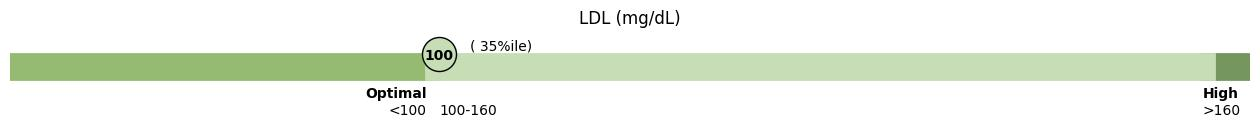
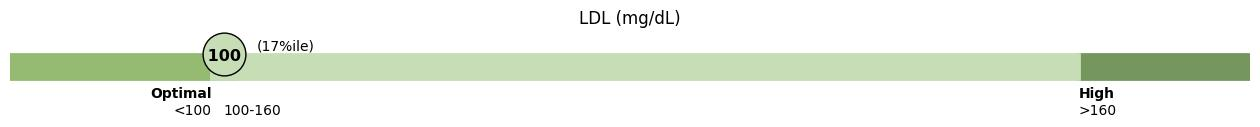
Changes in BMI input

diff --git a/Home.py b/Home.py
@@ -113,7 +113,7 @@ SAHC_FILE = os.path.join(SAHC_DATA_DIR, 'merged_data_noPID.csv')
 
 UNITS_MAP = {
     'LBDHDD': "mg/dL", 'LBDLDL': "mg/dL", 'LBXTC': "mg/dL", 'LBXTR': "mg/dL", 'LBXGH': "%",
-    'LBXGLU': "mg/dL", 'BPXOSY1': "mmHg", 'BPXODI1': "mmHg", 'LBXHGB': "g/dL", 'TotHDLRat': "", 'BMXBMI': "kg/m\u00b2"
+    'LBXGLU': "mg/dL", 'BPXOSY1': "mmHg", 'BPXODI1': "mmHg", 'LBXHGB': "g/dL", 'TotHDLRat': "", 'BMXBMI': ""
 }
 
 
@@ -126,19 +126,6 @@ NAME_MAP = {
 }
 
 AHA_RANGES = {
-    'Triglycerides (mg/dL)': (None, 150),
-    'HDL (mg/dL)': (40, 60),
-    'LDL (mg/dL)': (None, 100),
-    'Total Cholesterol (mg/dL)': (140, 160),
-    'Fasting Glucose (mg/dL)': (None, 100),
-    'Systolic Blood Pressure (mmHg)': (None, 120),
-    'Diastolic Blood Pressure (mmHg)': (None, 80),
-    'Total Cholesterol to HDL Ratio': (3.5, 5),
-    'Hemoglobin A1C (%)': (None, 5.7),
-    'Body Mass Index (kg/m\u00b2)': (None, 25)
-}
-
-AHA_RANGES = {
     'Triglycerides (mg/dL)': ("Normal", 150, "Borderline", 200, "High"),
     'HDL (mg/dL)': ("Low", 40, "Normal", 60, "High"),
     'LDL (mg/dL)': ("Optimal", 100, "", 160, "High"),
@@ -148,7 +135,7 @@ AHA_RANGES = {
     'Diastolic Blood Pressure (mmHg)': ("Normal", 80, "High", None, None, None),
     'Total Cholesterol to HDL Ratio': ("Low", 3.5, "Normal", 5, "High"),
     'Hemoglobin A1C (%)': ("Normal", 5.7, "Borderline", 6.4, "High"),
-    'Body Mass Index (kg/m\u00b2)': ("Low", 18.5, "Normal", 25, "High")
+    'Body Mass Index': ("Low", 18.5, "Normal", 25, "High")
 }
 
 def map_age_to_group(age):
@@ -362,16 +349,16 @@ def ui_choose(df, debugging):
     return df2
 
 @st.dialog("Your marker compared to your peers")
-def popup(acro, column, user_input, user_percentile, gender, age_range, med, on_med, prob, value, p25, p50, p75, p90, side, suffix):
+def popup(acro, column, user_input, user_percentile, gender, age_range, med, on_med, prob, value, p25, p50, p75, p90, side, suffix, low_number, high_number):
     
     if side == 'greater':
         st.write(f"The estimated probability of an optimal {column} ≥ {value} {UNITS_MAP[acro]} for a {gender.lower()} aged between {age_range} years is {prob * 100: .0f}%.")
     else:
         st.write(f"The estimated probability of an optimal {column} ≤ {value} {UNITS_MAP[acro]} for a {gender.lower()} aged between {age_range} years is {prob * 100: .0f}%.")
     if on_med:
-        st.write(f"An {column} of {user_input} is at the {user_percentile: .0f}{suffix} percentile for a {gender.lower()} aged between {age_range} years who is on {med}-lowering medication.")
+        st.write(f"An {column} of {user_input:.1f} is at the {user_percentile: .0f}{suffix} percentile for a {gender.lower()} aged between {age_range} years who is on {med}-lowering medication.")
     else:
-        st.write(f"An {column} of {user_input} is at the {user_percentile: .0f}{suffix} percentile for a {gender.lower()} aged between {age_range} years who is not on {med}-lowering medication.")
+        st.write(f"An {column} of {user_input:.1f} is at the {user_percentile: .0f}{suffix} percentile for a {gender.lower()} aged between {age_range} years who is not on {med}-lowering medication.")
 
     data = {
         'Percentile': [f'{column} Level'],
@@ -385,8 +372,14 @@ def popup(acro, column, user_input, user_percentile, gender, age_range, med, on_
     df = pd.DataFrame(data)
     st.dataframe(df, hide_index=True)
 
-    st.write("Based on the AHA guidlelines, the optimal value for HDL >= 40 for males. “>= 45 for females")
+    if 'Triglyc' in column or 'LDL' in column or 'Total Cholesterol (mg/dL)' in column or 'Glucose' in column or 'Pressure' in column or 'A1C' in column:
+        st.write(f"Based on the American Heart Association guidlelines, the optimal value for {column} is ≤ {low_number} for {gender.lower()}s.")
+    elif 'to HDL' in column or 'Body Mass' in column:
+        st.write(f"Based on the American Heart Association guidlelines, the optimal value for {column} is between {low_number}-{high_number} for {gender.lower()}s.")
+    elif 'HDL' in column:
+        st.write(f"Based on the American Heart Association guidlelines, the optimal value for {column} is ≥ {low_number} for {gender.lower()}s.")
 
+    
 def show_analysis(df):
     st.markdown(f"### <u>My risk profile markers</u>", unsafe_allow_html=True)
     
@@ -411,42 +404,83 @@ def show_analysis(df):
 
     user_inputs = {}
 
+    STEP_SIZE = {
+        'LBDHDD': 1,
+        'LBDLDL': 1,
+        'LBXTC': 1,
+        'LBXTR': 1,
+        'LBXGLU': 1,
+        'BPXOSY1': 1,
+        'BPXODI1': 1,
+        'TotHDLRat': .1,
+        'LBXGH': .1,
+        'BMXBMI': 1,
+    }
+
     for i, column in enumerate(['LBXTC', 'LBDLDL', 'LBDHDD', 'LBXTR', 'TotHDLRat', 'LBXGLU', 'LBXGH', 'BMXBMI', 'BPXOSY1', 'BPXODI1']):
+
+        global header
+        global placeholder
+        global header_color
 
         with cols[i].container():
 
             # col6, col7, col8, col9, col10, col11 = st.columns([.25, 1.6, .3, 5, 5, .25], vertical_alignment='bottom')
             # col6, col7, col8, col9, col10, col11 = st.columns([0.1, 0.15, 0.05, 0.3, 0.3, 0.1], vertical_alignment='bottom')
             # col6, col7, col8, col9, col10, col11 = st.columns([0.1, 0.12, 0.03, 0.325, 0.325, 0.1], vertical_alignment='bottom')
-            col6, col7, col8, col9, col10 = st.columns([0.05, 0.17, 0.05, 0.68, 0.05], vertical_alignment='center')
-            
-            columnName = f"{NAME_MAP[column]} ({UNITS_MAP[column]})"
-            if column == 'TotHDLRat':
+            if column == 'BMXBMI':
                 columnName = f"{NAME_MAP[column]}"
 
-            with col7:
-                key = column
+                header_col6, header_col7, header_col8, header_col9, header_col10 = st.columns([0.05, 0.17, 0.05, 0.68, 0.05])
 
+                # Ensure the placeholder is above col7 and col71
+                with header_col7:
 
-                global header
-                header = columnName
+                    header = columnName
+                    header_color = "black"
+                    placeholder = st.empty()
+                    placeholder.write(f"#### {header}")
 
-                global header_color
-                header_color = "black"
+                col6, col7, col71, col8, col9, col10 = st.columns([0.05, 0.085, 0.085, 0.05, 0.68, 0.05], vertical_alignment='center')
 
-                global placeholder
-                placeholder = st.empty()
+                with col7:
+                    key = column
 
-                placeholder.write(f"#### {header}")
+                    unique_key = f"{key}_{i}"
+                    weight = st.number_input('Weight (lbs)', key=unique_key, step=STEP_SIZE[column], value = 1)
 
-                unique_key = f"{key}_{i}"
-                user_inputs[key] = st.number_input('user input', key=unique_key, step=1, label_visibility="collapsed")
+                global height
 
-                st.caption(f'{validation_labels[key]}')
+                with col71:
+                    key = column
+
+                    unique_key = f"{key}_{i} + 1"
+                    height = st.number_input('Height (in)', key=unique_key, step=STEP_SIZE[column], value = 1)
+
+                user_inputs[key] = (weight / (height ** 2)) * 703
+                
+            else:
+                col6, col7, col8, col9, col10 = st.columns([0.05, 0.17, 0.05, 0.68, 0.05], vertical_alignment='center')
+            
+                columnName = f"{NAME_MAP[column]} ({UNITS_MAP[column]})"
+                if column == 'TotHDLRat':
+                    columnName = f"{NAME_MAP[column]}"
+
+                with col7:
+                    key = column
+
+                    header = columnName
+                    header_color = "black"
+                    placeholder = st.empty()
+
+                    placeholder.write(f"#### {header}")
+
+                    unique_key = f"{key}_{i}"
+                    user_inputs[key] = st.number_input('user input', key=unique_key, step=STEP_SIZE[column], label_visibility="collapsed")
+
+                    st.caption(f'{validation_labels[key]}')
             
             with col8:
-
-                
                 st.markdown("""
                     <style>
                         button[kind="primary"] {
@@ -459,7 +493,7 @@ def show_analysis(df):
 
                         button[kind="primary"]:hover {
                             background-color: white; /* Slightly different background on hover */
-                            color: #5D2C82; /* Ensure text color remains visible on hover */
+                            color: #7D343C; /* Ensure text color remains visible on hover */
                         }
                     </style>
                     """, unsafe_allow_html=True)
@@ -475,7 +509,7 @@ def show_analysis(df):
                     st.markdown(f"Not enough data available for {columnName}.")
                     continue
 
-                if user_input == 0:
+                if user_input == 0 or user_input >= 500:
                     # st.write(f"### ")
                     st.write(f"Please enter a value for {columnName}.")
                     continue
@@ -508,26 +542,39 @@ def show_analysis(df):
                 user_percentile = np.mean(sorted_array <= user_input) * 100
                 if int(user_percentile) == 100:
                     user_percentile == 99.99
-                if (user_input > high_number or user_input < low_number) and column != 'LBDHDD':
+                if (user_input > high_number and high_number != 1000) and column != 'LBDHDD':
+                    # ax.scatter(user_percentile, 0.85, color='red', zorder=5, label='Your Input')
+                    header_color = "red"
+                    placeholder.markdown(f"#### <span style='color:{header_color};'>{header}</span>", unsafe_allow_html=True)
+                if (user_input > low_number and high_number == 1000) and column != 'LBDHDD':
+                    # ax.scatter(user_percentile, 0.85, color='red', zorder=5, label='Your Input')
+                    header_color = "red"
+                    placeholder.markdown(f"#### <span style='color:{header_color};'>{header}</span>", unsafe_allow_html=True)
+                if user_input < low_number and column == 'LBDHDD':
                     # ax.scatter(user_percentile, 0.85, color='red', zorder=5, label='Your Input')
                     header_color = "red"
                     placeholder.markdown(f"#### <span style='color:{header_color};'>{header}</span>", unsafe_allow_html=True)
                 # else:
 
+                normal_color = regugreen
+                high_color = darkgreen
+                other_color = lightgreen
+
                 if AHA_RANGES[columnName][0] == 'Optimal':
-                    ax.plot([high_percentile + 1, 100], [0.775, 0.775], color=darkgreen, lw=20, label='High')
-                    ax.plot([0, low_percentile - 1], [0.775, 0.775], color=regugreen, lw=20, label="Low")
-                    ax.plot([low_percentile, high_percentile], [0.775, 0.775], color=lightgreen, lw=20, label='Healthy Range')
+                    ax.plot([high_percentile + 1, 100], [0.775, 0.775], color=high_color, lw=20, label='High')
+                    ax.plot([0, low_percentile], [0.775, 0.775], color=normal_color, lw=20, label="Low")
+                    ax.plot([low_percentile, high_percentile - 1], [0.775, 0.775], color=other_color, lw=20, label='Healthy Range')
 
                     if user_percentile < low_percentile:
-                        ax.scatter(user_percentile, 0.9, color=regugreen, zorder=5, label='Your Input', s=600, edgecolors=['black'])
+                        ax.scatter(user_percentile, 0.9, color=regugreen, zorder=5, label='Your Input', s=950, edgecolors=['black'])
                     elif user_percentile > high_percentile:
-                        ax.scatter(user_percentile, 0.9, color=darkgreen, zorder=5, label='Your Input', s=600, edgecolors=['black'])
+                        ax.scatter(user_percentile, 0.9, color=darkgreen, zorder=5, label='Your Input', s=950, edgecolors=['black'])
                     else:
-                        ax.scatter(user_percentile, 0.9, color=lightgreen, zorder=5, label='Your Input', s=600, edgecolors=['black'])
+                        ax.scatter(user_percentile, 0.9, color=lightgreen, zorder=5, label='Your Input', s=950, edgecolors=['black'])
 
                 else:
                     # lines from low_percentile to high_percentile
+
                     ax.plot([low_percentile, high_percentile], [0.775, 0.775], color=regugreen, lw=20, label='Healthy Range')
 
                     if high_percentile < 100:
@@ -536,11 +583,11 @@ def show_analysis(df):
                         ax.plot([0, low_percentile - 1], [0.775, 0.775], color=lightgreen, lw=20, label="Low")
 
                     if user_percentile < low_percentile:
-                        ax.scatter(user_percentile, 0.9, color=lightgreen, zorder=5, label='Your Input', s=600, edgecolors=['black'])
+                        ax.scatter(user_percentile, 0.9, color=lightgreen, zorder=5, label='Your Input', s=950, edgecolors=['black'])
                     elif user_percentile > high_percentile:
-                        ax.scatter(user_percentile, 0.9, color=darkgreen, zorder=5, label='Your Input', s=600, edgecolors=['black'])
+                        ax.scatter(user_percentile, 0.9, color=darkgreen, zorder=5, label='Your Input', s=950, edgecolors=['black'])
                     else:
-                        ax.scatter(user_percentile, 0.9, color=regugreen, zorder=5, label='Your Input', s=600, edgecolors=['black'])
+                        ax.scatter(user_percentile, 0.9, color=regugreen, zorder=5, label='Your Input', s=950, edgecolors=['black'])
 
                 ax.set_xlim(0, 100)
                 ax.set_ylim(0.4, 1.1)
@@ -557,11 +604,18 @@ def show_analysis(df):
 
                 ax.set_title(columnName)
 
-                plt.annotate(f'{user_input}', xy=(user_percentile, 0.875), xytext=(user_percentile, 0.85),
-                              horizontalalignment='center', color = 'black', zorder=10, weight='bold')
+                if STEP_SIZE[column] == .1 or column == 'BMXBMI':
+                    ax.annotate(f'{user_input: .1f}', xy=(user_percentile, 0.875), xytext=(user_percentile - 0.2, 0.85),
+                                horizontalalignment='center', color = 'black', zorder=10, weight='bold', fontsize=11.5)
+                else:
+                    ax.annotate(f'{user_input: .0f}', xy=(user_percentile, 0.875), xytext=(user_percentile - 0.2, 0.84),
+                                horizontalalignment='center', color = 'black', zorder=10, weight='bold', fontsize=13.5)
+                
+                # ax.annotate("hello", (0.5, 0.5), fontsize=100)
+                
                 if int(user_percentile) == 100:
                     user_percentile = 99
-                plt.annotate(f'({user_percentile: .0f}%ile)', xy=(user_percentile, 0.9), xytext=(user_percentile + 5, 0.935), 
+                plt.annotate(f'({user_percentile:.0f}%ile)', xy=(user_percentile, 0.9), xytext=(user_percentile + 5, 0.935), 
                              horizontalalignment='center')
 
                 if high_number < 1000:
@@ -574,10 +628,16 @@ def show_analysis(df):
                                   horizontalalignment='right', weight='bold')
                     plt.annotate(f'<{low_number}', xy=(low_percentile - 1, 0.657), xytext=(low_percentile - 1, 0.35),
                                   horizontalalignment='right')
-                plt.annotate(f'{AHA_RANGES[columnName][2]}', xy=(low_percentile, 0.675), xytext=(low_percentile, 0.5),
-                                  horizontalalignment='left', weight='bold')
-                plt.annotate(f'{low_number}-{high_number}', xy=(low_percentile, 0.675), xytext=(low_percentile, 0.35),
-                                  horizontalalignment='left')
+                if high_number == 1000:
+                    plt.annotate(f'{AHA_RANGES[columnName][2]}', xy=(low_percentile, 0.675), xytext=(low_percentile, 0.5),
+                                    horizontalalignment='left', weight='bold')
+                    plt.annotate(f'>{low_number}', xy=(low_percentile, 0.675), xytext=(low_percentile, 0.35),
+                                    horizontalalignment='left')
+                else:
+                    plt.annotate(f'{AHA_RANGES[columnName][2]}', xy=(low_percentile, 0.675), xytext=(low_percentile, 0.5),
+                                    horizontalalignment='left', weight='bold')
+                    plt.annotate(f'{low_number}-{high_number}', xy=(low_percentile, 0.675), xytext=(low_percentile, 0.35),
+                                    horizontalalignment='left')
 
                 for spine in ax.spines.values():
                     spine.set_visible(False)
@@ -613,7 +673,7 @@ def show_analysis(df):
                 cdf_values = np.cumsum(pdf_values) * (hdl_range[1] - hdl_range[0])
 
                 # Find the CDF value at HDL = 35
-                if "HDL" in columnName:
+                if "HDL" in columnName or high_number == 1000:
                     value = low_number
                 else:
                     value = high_number
@@ -640,16 +700,16 @@ def show_analysis(df):
                 if more_info:
                     if "HDL" in columnName:
                         popup(column, popup_column, user_input, user_percentile, gender, age_group, "cholesterol", medChol, prob, value, 
-                              percentile_25, percentile_50, percentile_75, percentile_90, "greater", suffix)
+                              percentile_25, percentile_50, percentile_75, percentile_90, "greater", suffix, low_number, high_number)
                     elif "DL" in columnName or "Trig" in columnName or "Chol" in columnName:
                         popup(column, popup_column, user_input, user_percentile, gender, age_group, "cholesterol", medChol, prob, value, 
-                              percentile_25, percentile_50, percentile_75, percentile_90, "less", suffix)
+                              percentile_25, percentile_50, percentile_75, percentile_90, "less", suffix, low_number, high_number)
                     elif "Glucose" in columnName:
                         popup(column, popup_column, user_input, user_percentile, gender, age_group, "blood sugar", medDiab, prob, value, 
-                              percentile_25, percentile_50, percentile_75, percentile_90, "less", suffix)   
+                              percentile_25, percentile_50, percentile_75, percentile_90, "less", suffix, low_number, high_number)   
                     else:
                         popup(column, popup_column, user_input, user_percentile, gender, age_group, "blood pressure", medBP, prob, value, 
-                              percentile_25, percentile_50, percentile_75, percentile_90, "less", suffix)
+                              percentile_25, percentile_50, percentile_75, percentile_90, "less", suffix, low_number, high_number)
 
 # Main execution
 df_c = load_files(False)
